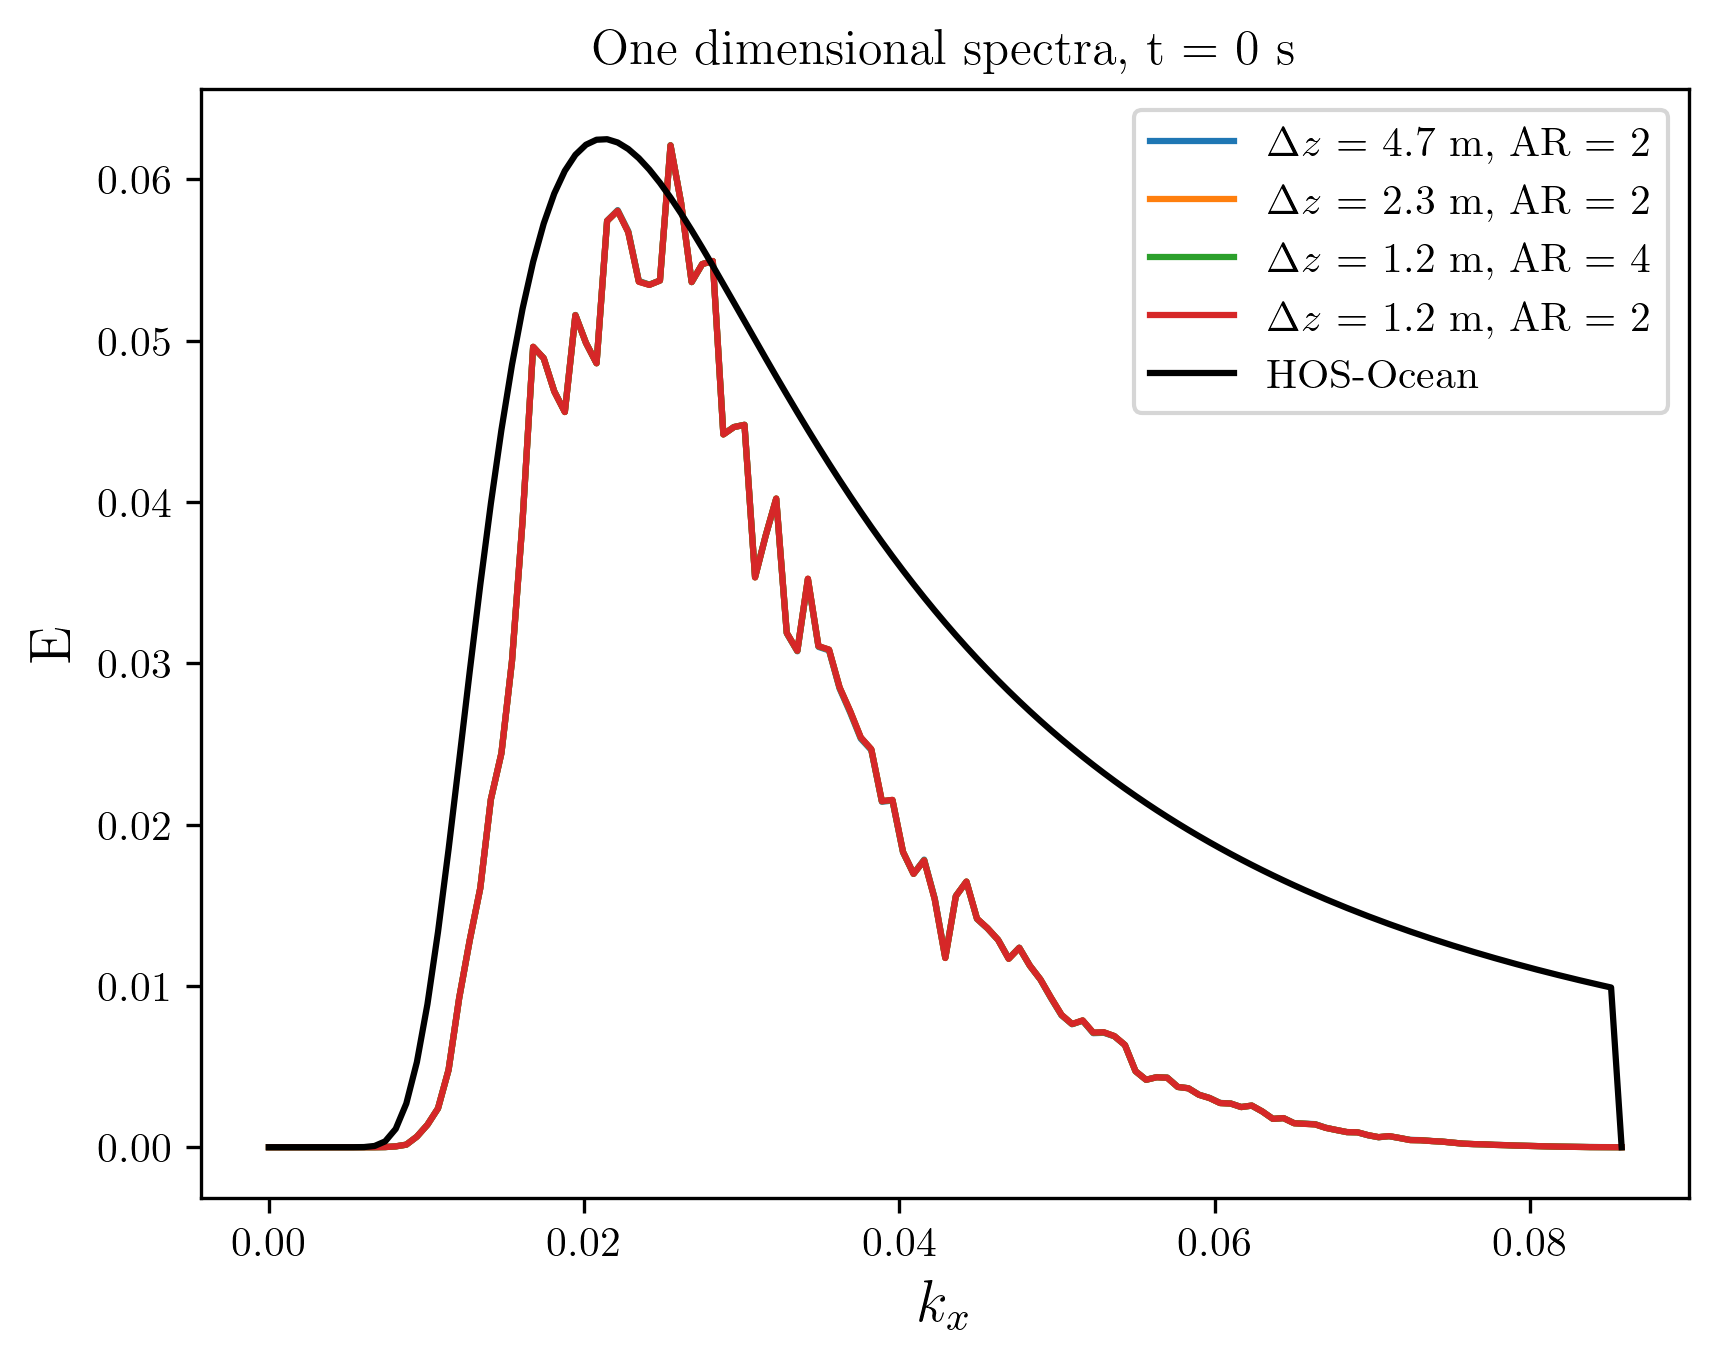
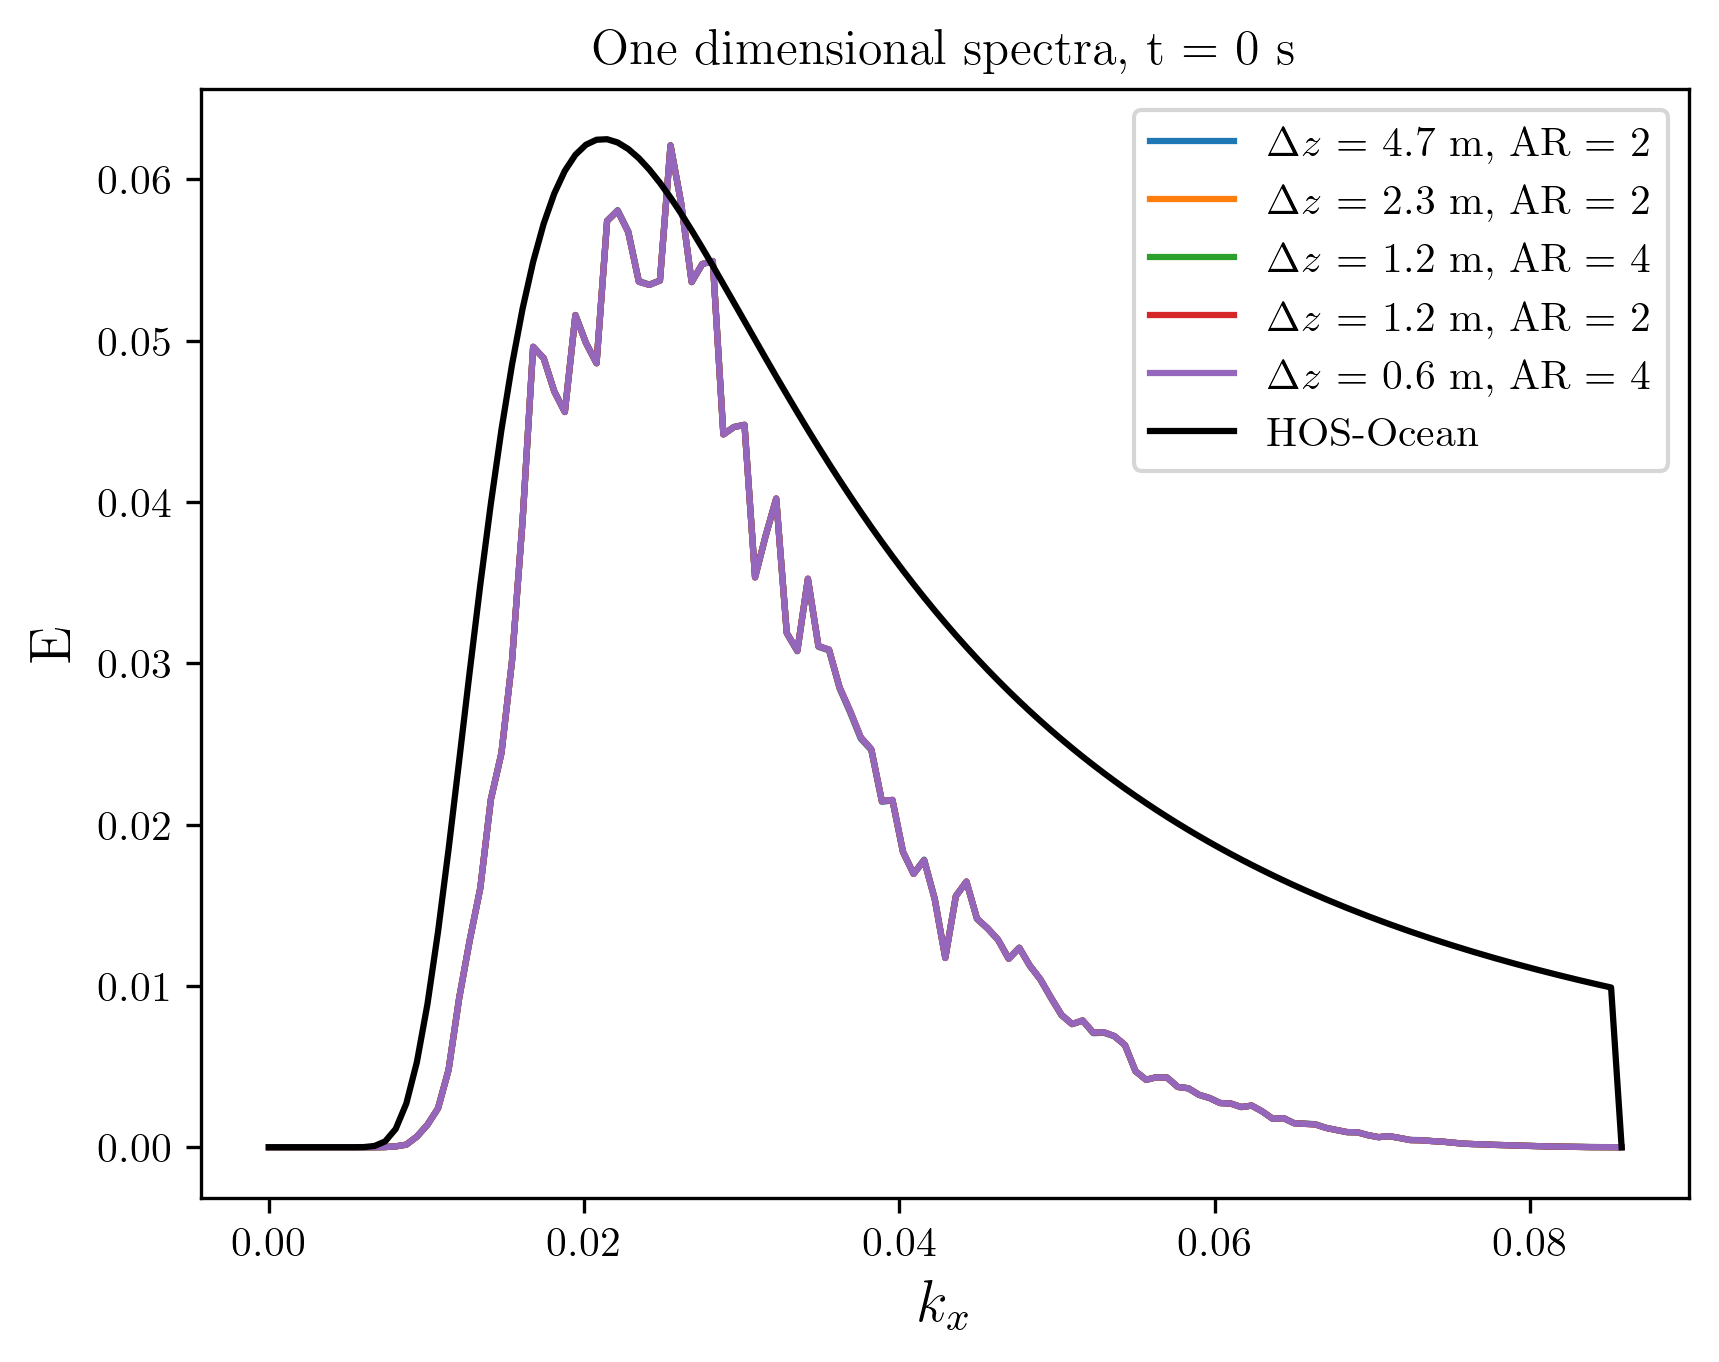
include the 5 level w/ high aspect ratio

diff --git a/AMR_Wind_cases/irregular_ocean_periodic/spectral_analysis.py b/AMR_Wind_cases/irregular_ocean_periodic/spectral_analysis.py
@@ -174,11 +174,13 @@ def _(parse_single_file, plt, np, path):
         str_3lev = "00000"
         str_4lev = "00000"
         str_5lev = "00000"
+        str_5lev_AR2x = "00000"
         if (itime == 1000):
             HOS_time = 999.6
             str_3lev = "05000"
             str_4lev = "10000"
             str_5lev = "20000"
+            str_5lev_AR2x = "57330"
         elif (itime != 0):
             raise ValueError(
                         f"Invalid time integer ({itime}) as input argument for make_spectrum_plot()"
@@ -205,6 +207,7 @@ def _(parse_single_file, plt, np, path):
         Dfinal_four_levels = np.genfromtxt(path + '/SGF/4_ref_levels/sampling'+str_4lev+'_fs.txt', skip_header=2, delimiter='')
         Dfinal_four_levels_AR2x = np.genfromtxt(path + '/SGF/4_ref_levels_AR2x/sampling'+str_5lev+'_fs.txt', skip_header=2, delimiter='')
         Dfinal_five_levels = np.genfromtxt(path + '/SGF/5_ref_levels/sampling'+str_5lev+'_fs.txt', skip_header=2, delimiter='')
+        Dfinal_five_levels_AR2x = np.genfromtxt(path + '/SGF/5_ref_levels_AR2x/sampling'+str_5lev_AR2x+'_fs.txt', skip_header=2, delimiter='')
 
         X_256 = np.zeros((_nx, _ny))
         Y_256 = np.zeros((_nx, _ny))
@@ -213,6 +216,7 @@ def _(parse_single_file, plt, np, path):
         Eta_CFD_four_levels = np.zeros((_nx, _ny))
         Eta_CFD_four_levels_AR2x = np.zeros((_nx, _ny))
         Eta_CFD_five_levels = np.zeros((_nx, _ny))
+        Eta_CFD_five_levels_AR2x = np.zeros((_nx, _ny))
 
         for i in range(_nx):
             for _j in range(_ny):
@@ -223,6 +227,7 @@ def _(parse_single_file, plt, np, path):
                 Eta_CFD_four_levels[i, _j] = Dfinal_four_levels[i + _j * _nx, 2]
                 Eta_CFD_four_levels_AR2x[i, _j] = Dfinal_four_levels_AR2x[i + _j * _nx, 2]
                 Eta_CFD_five_levels[i, _j] = Dfinal_five_levels[i + _j * _nx, 2]
+                Eta_CFD_five_levels_AR2x[i, _j] = Dfinal_five_levels_AR2x[i + _j * _nx, 2]
         
         # Calculate PSD
         SamplingFreq = 2 * np.pi / (X_256[1, 0] - X_256[0, 0])
@@ -231,6 +236,7 @@ def _(parse_single_file, plt, np, path):
         kxCFD_four_levels, PhixCFDTotal_four_levels = PSD(SamplingFreq, Eta_CFD_four_levels[:, 0])
         kxCFD_four_levels_AR2x, PhixCFDTotal_four_levels_AR2x = PSD(SamplingFreq, Eta_CFD_four_levels_AR2x[:, 0])
         kxCFD_five_levels, PhixCFDTotal_five_levels = PSD(SamplingFreq, Eta_CFD_five_levels[:, 0])
+        kxCFD_five_levels_AR2x, PhixCFDTotal_five_levels_AR2x = PSD(SamplingFreq, Eta_CFD_five_levels_AR2x[:, 0])
 
         for _j in range(1, _ny):
             # three levels
@@ -245,11 +251,15 @@ def _(parse_single_file, plt, np, path):
             # five levels
             kxCFD_five_levels, PhixCFD_five_levels = PSD(SamplingFreq, Eta_CFD_five_levels[:, _j])
             PhixCFDTotal_five_levels = PhixCFDTotal_five_levels + PhixCFD_five_levels
+            # five levels, AR 2x
+            kxCFD_five_levels_AR2x, PhixCFD_five_levels_AR2x = PSD(SamplingFreq, Eta_CFD_five_levels_AR2x[:, _j])
+            PhixCFDTotal_five_levels_AR2x = PhixCFDTotal_five_levels_AR2x + PhixCFD_five_levels_AR2x
 
         PhixCFDTotal_three_levels = PhixCFDTotal_three_levels / (_ny)
         PhixCFDTotal_four_levels = PhixCFDTotal_four_levels / (_ny)
         PhixCFDTotal_four_levels_AR2x = PhixCFDTotal_four_levels_AR2x / (_ny)
         PhixCFDTotal_five_levels = PhixCFDTotal_five_levels / (_ny)
+        PhixCFDTotal_five_levels_AR2x = PhixCFDTotal_five_levels_AR2x / (_ny)
 
         # Make plot
         _fig = plt.figure()
@@ -258,6 +268,7 @@ def _(parse_single_file, plt, np, path):
         plt.plot(kxCFD_four_levels, PhixCFDTotal_four_levels, label='$\\Delta z$ = 2.3 m, AR = 2')
         plt.plot(kxCFD_four_levels_AR2x, PhixCFDTotal_four_levels_AR2x, label='$\\Delta z$ = 1.2 m, AR = 4')
         plt.plot(kxCFD_five_levels, PhixCFDTotal_five_levels, label='$\\Delta z$ = 1.2 m, AR = 2')
+        plt.plot(kxCFD_five_levels_AR2x, PhixCFDTotal_five_levels_AR2x, label='$\\Delta z$ = 0.6 m, AR = 4')
         plt.plot(kx[127, :], a_eta[127, :], 'k', label='HOS-Ocean')
         plt.xlabel('$k_x$', fontsize=14)
         plt.ylabel('E', fontsize=14)
